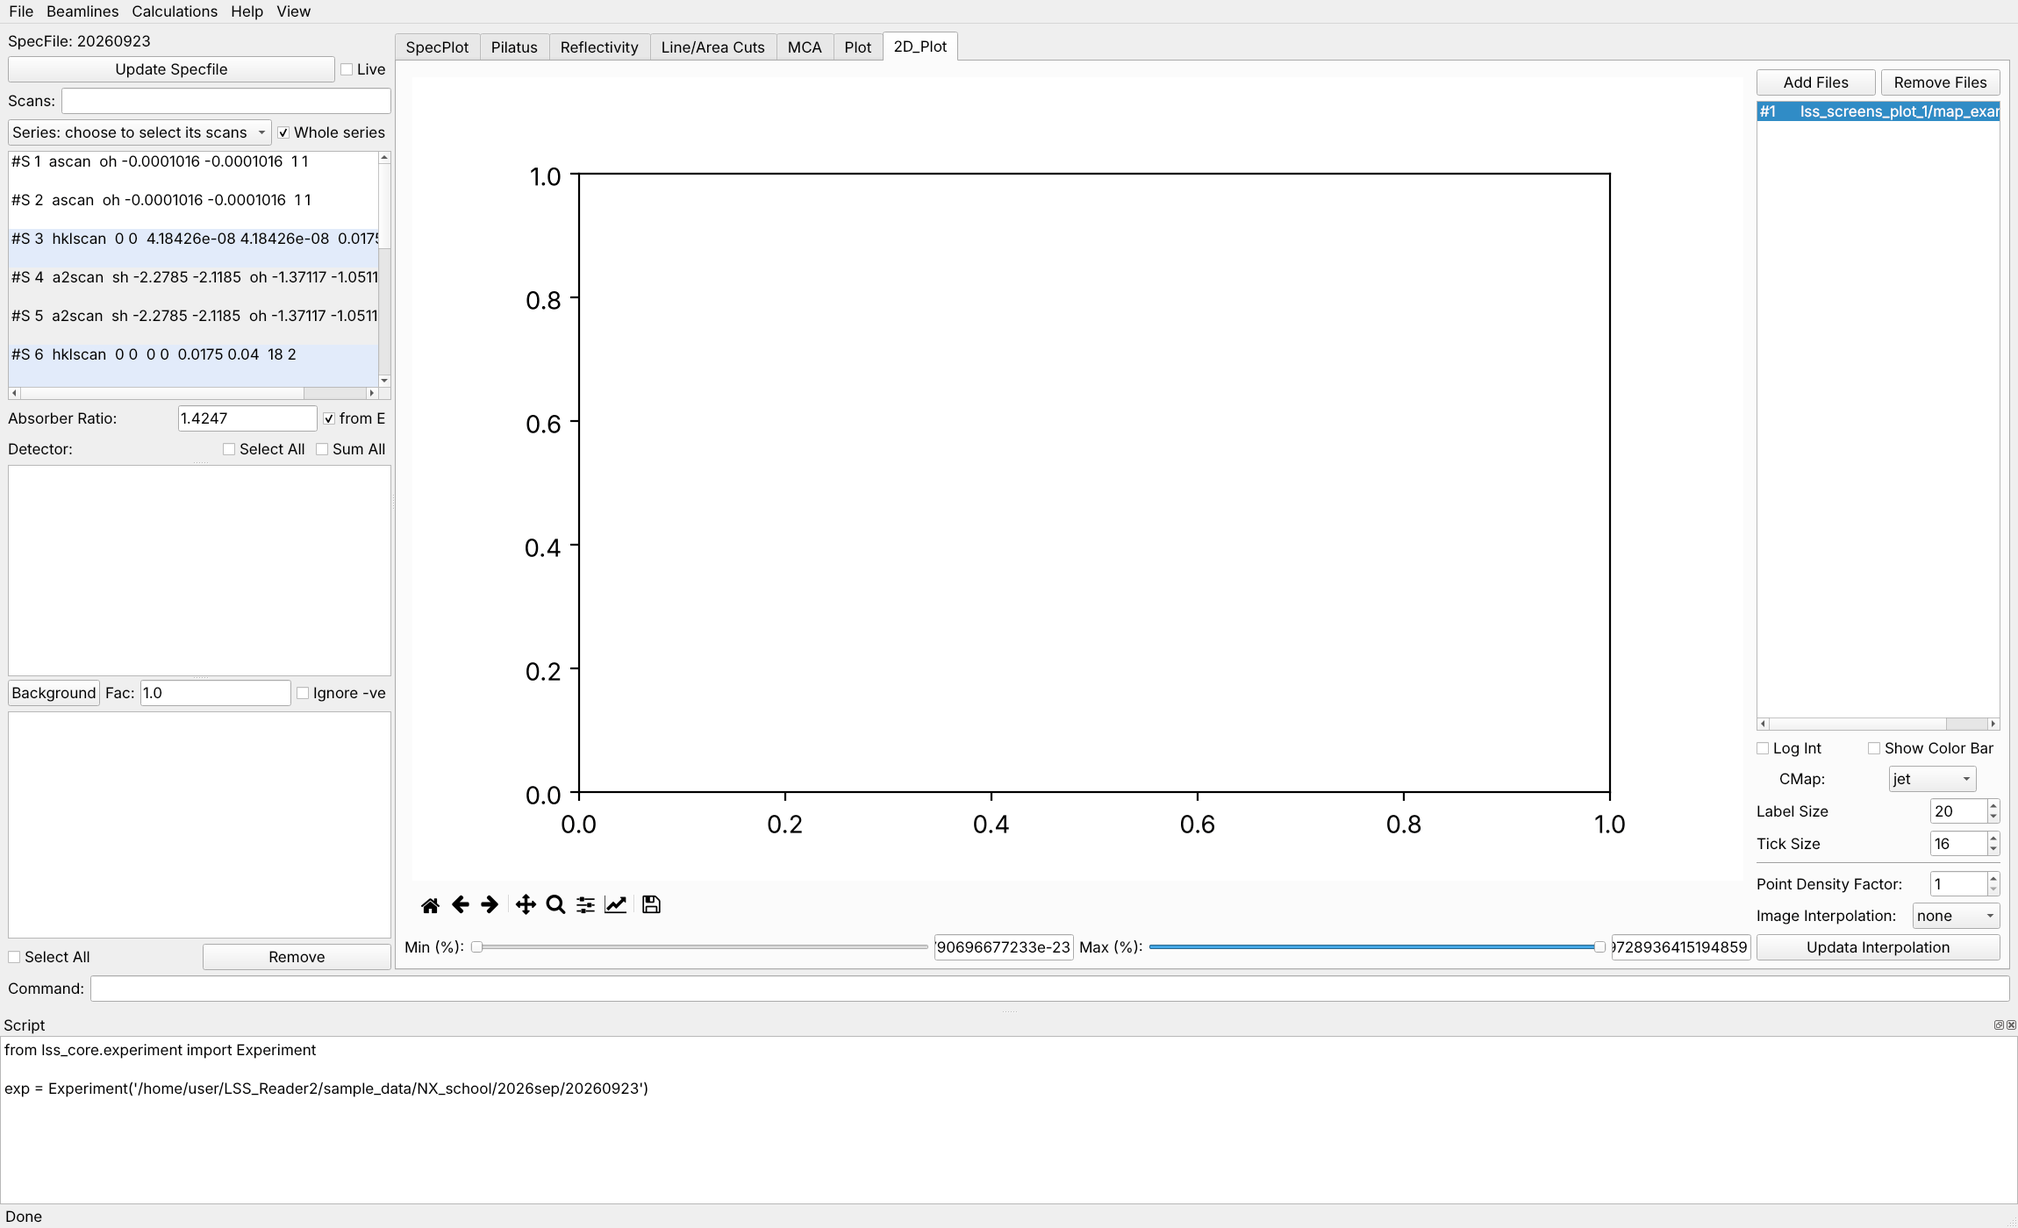
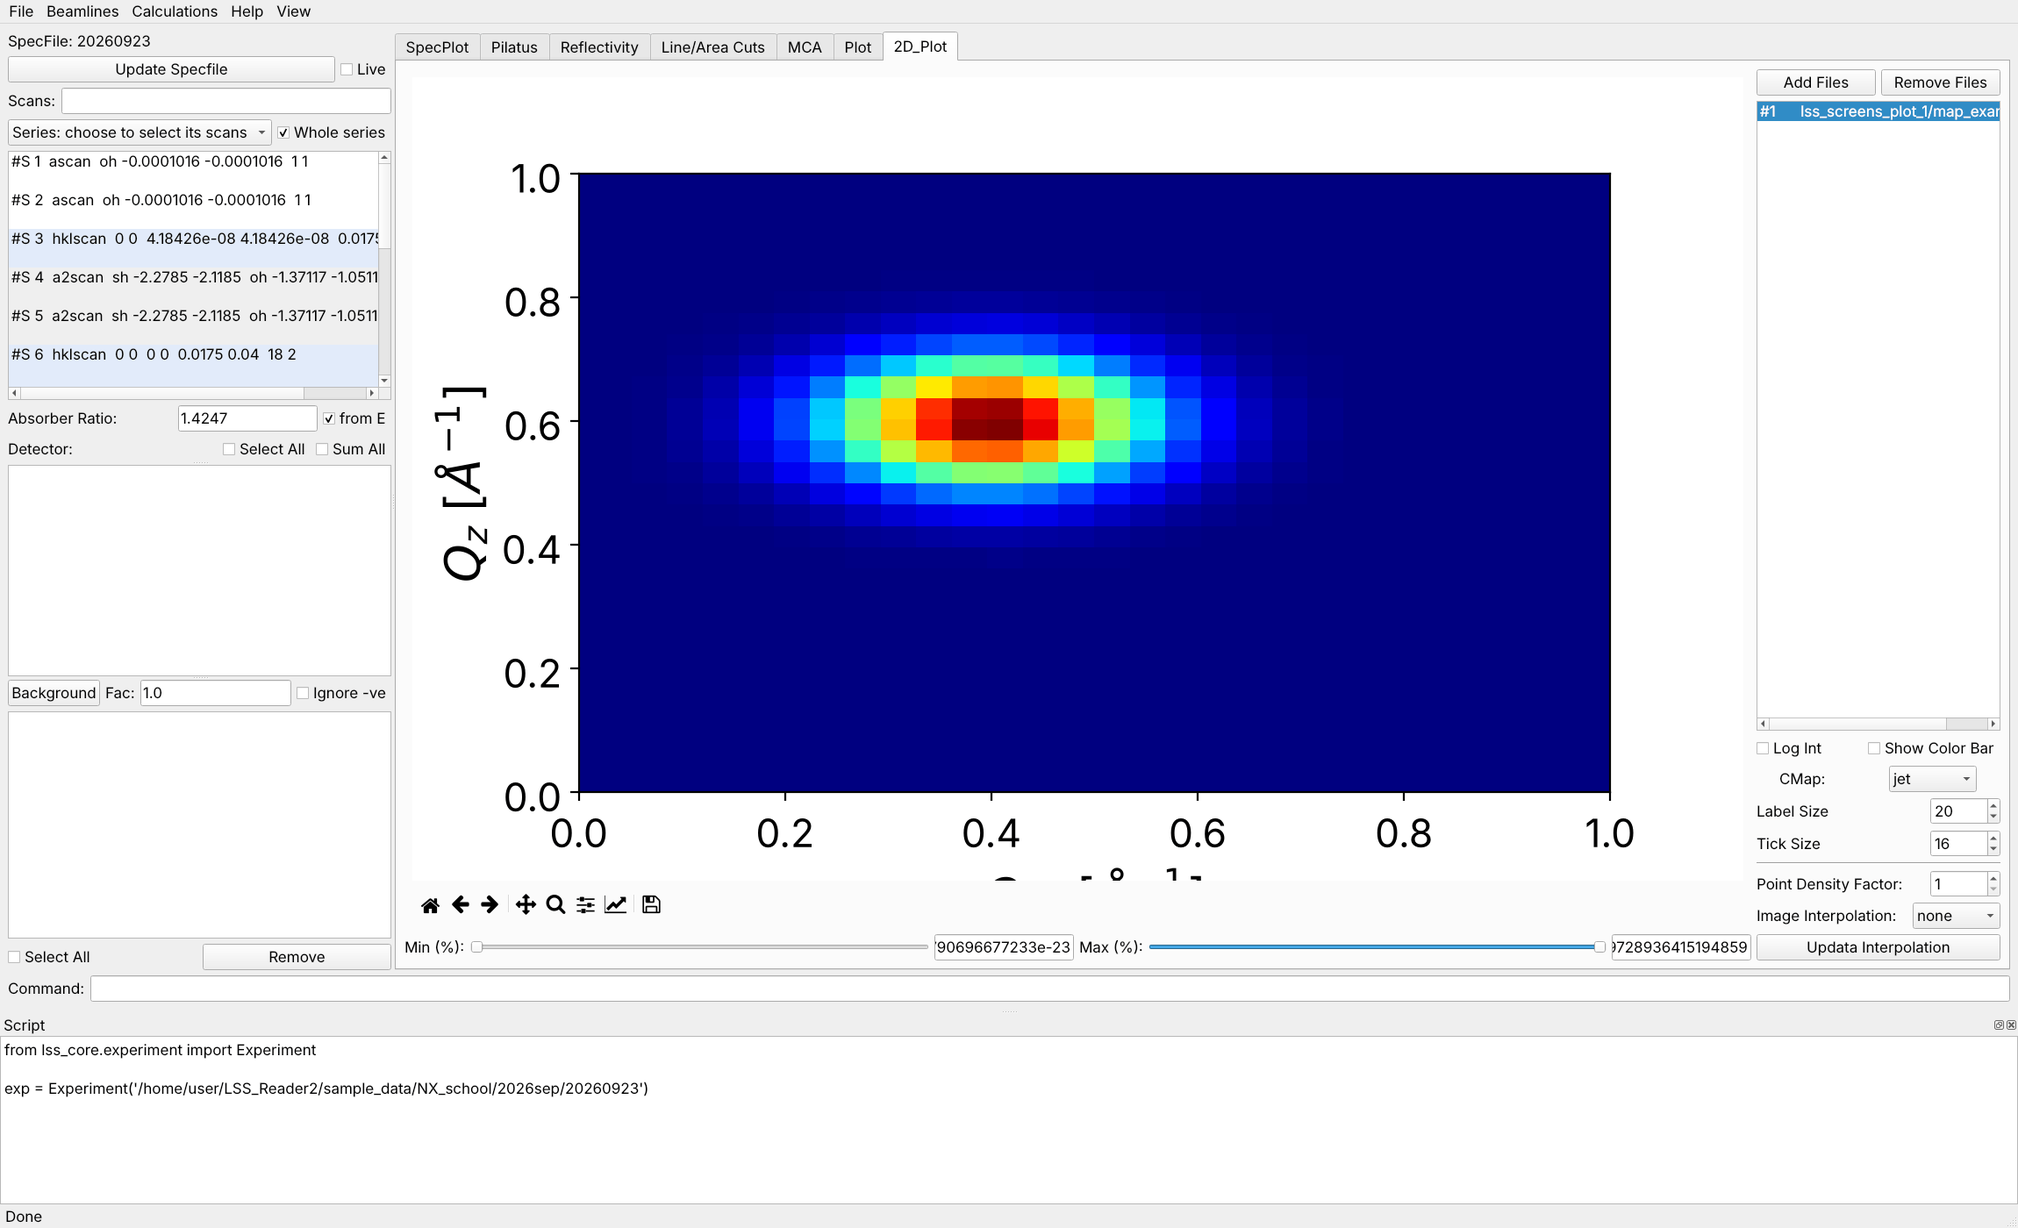
2D_Plot draws a map file again: no matplotlib.cm.get_cmap; 'spectral' offered as 'nipy_spectral'
Adding a file to the 2D_Plot tab raised AttributeError: update2dPlotPlot
called matplotlib.cm.get_cmap, removed in matplotlib 3.9 (the build pins
3.11.2), so the plot stayed empty. The colour map is now passed by name,
which every matplotlib accepts; the same call in the unreachable legacy
pilGIDData method is changed too. The 2D_Plot and (hidden) Apex
colour-map lists offered 'spectral', which matplotlib 2.0 renamed
'nipy_spectral' and later removed (choosing it raised; the Apex list
colours the Reflectivity ROI image); both now offer 'nipy_spectral', the
same map. Display only: no output number changes.

tests/test_gui_2dplot.py adds a synthetic x y z file through the real Add
File button, redraws it with every colour map, linear and log, then
interpolated, and checks that every colour map offered by any list
exists; both tests fail without the fix. The crash sweep did not catch
this because its file chooser returns no file (still open, TODO area I).
Screenshots 83 (the map now drawn) and 14 (the wider Apex list) retaken;
assessment, inventory, manual notes and TODO updated.

Claude-Session: https://claude.ai/code/session_017UNj93eCQ98icFoDfMzdiH

Changed region(s): [[0.2161, 0.1229, 0.8026, 0.7064], [0.2161, 0.3071, 0.247, 0.3379]]

diff --git a/mainwindow.py b/mainwindow.py
@@ -4940,7 +4940,7 @@ class MainWindow (QMainWindow):
             self.pil_ylabel=r'$Q_z$'+' '+r'$[\AA^{-1}]$'
         self.gidax=self.ui.pilMplWidget.canvas.fig.add_subplot(1,1,1)
         if self.ui.pilLogIntCheckBox.checkState()!=0:
-            self.gid_p=self.gidax.pcolor(self.pilXAxs, self.pilYAxs, np.log10(self.pilhintData),cmap=pl.cm.get_cmap(cmap),vmin=np.log10(vmin), vmax=np.log10(vmax))
+            self.gid_p=self.gidax.pcolor(self.pilXAxs, self.pilYAxs, np.log10(self.pilhintData),cmap=cmap,vmin=np.log10(vmin), vmax=np.log10(vmax))
         else:
             fint=interp1d(self.pilXAxs[0], self.pilhintData, kind='cubic')
             #print self.pilXAxs[0], self.pilhintData, len(self.pilhintData), len(self.pilhintData[0])
@@ -4948,7 +4948,7 @@ class MainWindow (QMainWindow):
             inter_pilhitData=fint(newpilXAxis)
             self.extent=[self.pilXAxs[0][0],self.pilXAxs[0][-1],self.pilYAxs[0][0],self.pilYAxs[-1][-1]]
             self.gid_p=self.gidax.imshow(inter_pilhitData,interpolation='bicubic',extent=self.extent,vmax=vmax,vmin=vmin,cmap=cmap,aspect=aspect,origin='lower')            
-            #self.gid_p=self.gidax.pcolor(self.pilXAxs, self.pilYAxs, self.pilhintData,cmap=pl.cm.get_cmap(cmap),vmin=vmin, vmax=vmax)           
+            #self.gid_p=self.gidax.pcolor(self.pilXAxs, self.pilYAxs, self.pilhintData,cmap=cmap,vmin=vmin, vmax=vmax)           
         #self.gidax.set_xlim((np.min(self.pilXAxs),np.max(self.pilXAxs)))
         #self.gidax.set_ylim((np.min(self.pilYAxs),np.max(self.pilYAxs)))
         self.gidax.set_aspect(aspect)
@@ -7794,9 +7794,9 @@ class MainWindow (QMainWindow):
         self.plot2dax.set_ylabel(r'$Q_{z}$'+' '+r'$[\AA^{-1}]$', fontsize=labelsize)
         if self.plot2dindex==0:
             if self.ui.twodLogIntCheckBox.checkState()!=0:
-                self.plot2d_p=self.plot2dax.pcolor(self.data2dx, self.data2dy, np.log10(self.data2dint),cmap=pl.cm.get_cmap(cmap),vmin=np.log10(vmin), vmax=np.log10(vmax))
+                self.plot2d_p=self.plot2dax.pcolor(self.data2dx, self.data2dy, np.log10(self.data2dint),cmap=cmap,vmin=np.log10(vmin), vmax=np.log10(vmax))
             else:
-                self.plot2d_p=self.plot2dax.pcolor(self.data2dx, self.data2dy, self.data2dint, cmap=pl.cm.get_cmap(cmap), vmin=vmin, vmax=vmax)
+                self.plot2d_p=self.plot2dax.pcolor(self.data2dx, self.data2dy, self.data2dint, cmap=cmap, vmin=vmin, vmax=vmax)
             self.plot2dax.set_xlim((np.min(self.data2dx),np.max(self.data2dx)))
             self.plot2dax.set_ylim((np.min(self.data2dy),np.max(self.data2dy)))
         else:

diff --git a/tests/test_gui_2dplot.py b/tests/test_gui_2dplot.py
@@ -1,0 +1,58 @@
+"""The 2D_Plot tab draws an x y z map file.
+
+Found by the GUI assessment (2026-11-22, TODO area I): adding a file raised
+AttributeError, because ``update2dPlotPlot`` called
+``matplotlib.cm.get_cmap``, removed in matplotlib 3.9; and the colour-map
+lists of the 2D_Plot and (hidden) Apex tabs offered ``spectral``, the name
+matplotlib 2.0 changed to ``nipy_spectral`` and later removed. The crash
+sweep never saw it: its file chooser returns no file.
+"""
+import matplotlib
+import numpy as np
+import pytest
+
+pytestmark = pytest.mark.gui
+
+NX, NY = 30, 20
+
+
+def _map_file(tmp_path):
+    xx, yy = np.meshgrid(np.linspace(0.1, 1.0, NX), np.linspace(0.1, 1.0, NY))
+    zz = 1.0 + 100.0 * np.exp(-(((xx - 0.4) / 0.15) ** 2 + ((yy - 0.6) / 0.1) ** 2))
+    path = tmp_path / 'map.txt'
+    np.savetxt(path, np.column_stack([xx.ravel(), yy.ravel(), zz.ravel()]))
+    return str(path)
+
+
+def test_a_map_file_is_drawn_in_every_colour_map_and_scale(window, qapp, recorder, tmp_path):
+    recorder.open_names = [_map_file(tmp_path)]
+    window.ui.twodPlotAddFilePushButton.click()
+    qapp.processEvents()
+    files = window.ui.twodPlotFileListWidget
+    assert files.count() == 1
+    files.item(0).setSelected(True)
+    qapp.processEvents()
+    assert recorder.exceptions == []
+    assert window.plot2dindex == 0
+    assert window.plot2d_p.get_array().size == NX * NY
+    combo = window.ui.twodCMapComboBox
+    for log in (False, True):
+        window.ui.twodLogIntCheckBox.setChecked(log)
+        for i in range(combo.count()):
+            combo.setCurrentIndex(i)
+            qapp.processEvents()
+            assert window.plot2d_p.get_cmap().name == combo.itemText(i)
+    window.ui.twodUpdatePlotPushButton.click()          # interpolated: drawn with imshow
+    qapp.processEvents()
+    assert window.plot2dindex == 1
+    assert window.plot2d_p.get_cmap().name == combo.currentText()
+    assert recorder.exceptions == []
+    assert recorder.messages == []
+
+
+def test_every_colour_map_offered_exists(window, recorder):
+    for name in ('pilCMapComboBox', 'gixCMapComboBox', 'twodCMapComboBox'):
+        combo = getattr(window.ui, name)
+        for i in range(combo.count()):
+            assert combo.itemText(i) in matplotlib.colormaps, (name, combo.itemText(i))
+    assert recorder.exceptions == []

diff --git a/docs/gui/inventory.md b/docs/gui/inventory.md
@@ -329,7 +329,7 @@ Generated by `python tests/tools/gui_map.py` from `docs/gui/inventory/*.yaml`; d
 | `pilBPCiteSpinBox` | spin | Bad Pix Corr. Iter. | Pilatus | imageSelectedScanChanged | Iterations of bad-pixel correction applied when frames are read (0: off) | reflectivity; gid; gisaxs; cuts; burn-ref; burn-gid |  | always | False | Changing it re-reads all frames. The Reflectivity tab has its own 'Bad Pixel Correction fac' field (inventory B); the Apex tab another. Three spellings. |
 | `pilBPCfacSpinBox` | spin | Fact. | Pilatus | imageSelectedScanChanged | Threshold factor of the bad-pixel correction | reflectivity; gid; gisaxs; cuts; burn-ref; burn-gid | iterations > 0 | always | False | 'Fact.' meaning not explained; no tooltip. |
 | `pilAxesComboBox` | combo | Axes: | Pilatus | update2dPlots | Image axes in Pixels, Angles or Q | gid; gisaxs; cuts; reflectivity | frames selected | always | False | Movie and GISAXS switch it to Q silently. Cut directions in pixels or Q are chosen separately in pilCutDirComboBox, not linked to this. |
-| `pilCMapComboBox` | combo | CMap: | Pilatus | update2dPlots | Colour map (jet, gray, hot, summer, winter, rainbow) | reflectivity; gid; gisaxs; cuts; burn-ref; burn-gid |  | always | False | List differs from 2D_Plot and Apex ('spectral' there, 'rainbow' here). The Reflectivity ROI image uses the hidden Apex tab's colour map instead of this one (refAnalyze reads gixCMapComboBox; read only). Not kept between sessions (F70). |
+| `pilCMapComboBox` | combo | CMap: | Pilatus | update2dPlots | Colour map (jet, gray, hot, summer, winter, rainbow) | reflectivity; gid; gisaxs; cuts; burn-ref; burn-gid |  | always | False | List differs from 2D_Plot and Apex ('nipy_spectral' there, formerly 'spectral'; 'rainbow' here). The Reflectivity ROI image uses the hidden Apex tab's colour map instead of this one (refAnalyze reads gixCMapComboBox; read only). Not kept between sessions (F70). |
 | `pilAspectComboBox` | combo | Aspect: | Pilatus | update2dPlots | Image aspect auto or equal | gid; gisaxs; cuts |  | always | False | Not on 2D_Plot. |
 | `pilMplWidget` | plot |  | Pilatus |  | Up to 10 selected frames in a grid, each with a colour bar, or one summed frame, GISAXS or GID map; matplotlib toolbar below | reflectivity; gid; gisaxs; cuts; burn-ref; burn-gid | frames selected | always | False | Measured: 11 frames selected -> 10 drawn (F#0-F#9) with no notice; frame titles, axis labels and colour bars overlap and the suptitle overprints the top row; at the default scale (min -2, max 1) the reflectivity frames are a uniform yellow. No overlay of the ROI, cut band or direct beam column, except a dashed line in Movie (read only). Phase-2 subject (image_display.md). |
 | `pilLogIntCheckBox` | checkbox | Log Int | Pilatus | update2dPlots | Log colour scale | reflectivity; gid; gisaxs; cuts; burn-ref; burn-gid |  | always | False | Off by default although most frames need it (observed). Name differs from LogX/LogY elsewhere. |
@@ -391,7 +391,7 @@ Generated by `python tests/tools/gui_map.py` from `docs/gui/inventory/*.yaml`; d
 | `twodPlotFileListWidget` | list |  | 2D_Plot | updateSelected2dPlotFile | The added files; selecting one plots it | flex-plot |  | always | False | Multi-selection allowed, only the first is used. |
 | `twodLogIntCheckBox` | checkbox | Log Int | 2D_Plot | update2dPlotPlot | Log colour scale | flex-plot |  | always | False |  |
 | `twodColBarCheckBox` | checkbox | Show Color Bar | 2D_Plot | update2dPlotPlot | Shows the colour bar | flex-plot |  | always | False | Pilatus always draws one per frame; no switch there. |
-| `twodCMapComboBox` | combo | CMap: | 2D_Plot | update2dPlotPlot | Colour map (jet, gray, hot, summer, winter, spectral) | flex-plot |  | always | False | 'spectral' is not a matplotlib name in current versions ('Spectral'); choosing it may fail (read only, not run). Pilatus has 'rainbow' instead. |
+| `twodCMapComboBox` | combo | CMap: | 2D_Plot | update2dPlotPlot | Colour map (jet, gray, hot, summer, winter, nipy_spectral) | flex-plot |  | always | False | Offered 'spectral' until 2026-11-23, a name matplotlib 2.0 changed to 'nipy_spectral' and later removed (choosing it raised); now 'nipy_spectral'. Adding a file raised AttributeError (matplotlib.cm.get_cmap, removed in 3.9) until 2026-11-23 (tests/test_gui_2dplot.py). Pilatus has 'rainbow' instead. |
 | `twodLabelSizeSpinBox` | spin | Label Size | 2D_Plot | update2dPlotPlot | Axis label font size | flex-plot |  | always | False | Only 2D_Plot and Plot have font sizes; image and cut plots do not. |
 | `twodTickSizeSpinBox` | spin | Tick Size | 2D_Plot | update2dPlotData | Tick label font size | flex-plot |  | always | False | Connected to update2dPlotData (reloads the file and resets the colour limits), unlike Label Size (update2dPlotPlot) (read only). |
 | `twodDenFacSpinBox` | spin | Point Density Factor: | 2D_Plot |  | Factor by which Update Interpolation multiplies the number of x points | flex-plot |  | always | False | Used only by the button. |

diff --git a/docs/gui/screens/README.md b/docs/gui/screens/README.md
@@ -6,7 +6,7 @@ and synthetic data from `tests/synth.py` for MCA / fluorescence, the reflectivit
 (NX has no MCA data). Regenerate the whole folder with the command above; the table is rewritten, the
 Observations section is by hand and is kept.
 
-74 images, 5.7 MB, last run took 42 s.
+74 images, 5.7 MB, last run took 44 s.
 
 | File | What it shows | Data and state |
 |---|---|---|
@@ -25,7 +25,7 @@ Observations section is by hand and is kept.
 | `21_pilatus_one_frame.png` | Pilatus tab, whole window, one frame | Scan 11, frame 1 selected |
 | `21b_pilatus_tab_controls.png` | Pilatus tab page (controls above, image below) | Scan 11, frame 1 |
 | `22_pilatus_three_frames.png` | Pilatus tab with three frames selected | Scan 11, frames 1, 11, 21 selected |
-| `23_pilatus_all_frames_of_a_scan.png` | Pilatus tab with ALL frames of a long scan selected (the many-small-images problem) | Scan 11: all 40 frames selected (drawing took 0.6 s offscreen) |
+| `23_pilatus_all_frames_of_a_scan.png` | Pilatus tab with ALL frames of a long scan selected (the many-small-images problem) | Scan 11: all 40 frames selected (drawing took 0.8 s offscreen) |
 | `23b_pilatus_all_frames_reflectivity_series.png` | Pilatus tab with all frames of the four reflectivity scans selected | Scans 6-9: all 96 frames selected |
 | `30_reflectivity_empty.png` | The Reflectivity tab (page and its controls) with nothing loaded | No SPEC file; crop of the tab widget |
 | `31_refpatch_dialog_first_join.png` | Ref Patch window (opened by Pilatus > Ref Patch), first join | Scans 6-9 all frames; Ref Patch clicked |
@@ -137,7 +137,7 @@ fonts), where font metrics may differ a little from the owner's desktop.
 - The integral plot shows a legend "#0" with an errorbar sample that is not one of the points plotted.
 
 **Plot, 2D_Plot (`8x`)**
-- 2D_Plot raises `AttributeError: module 'matplotlib.cm' has no attribute 'get_cmap'` at `update2dPlotPlot` (mainwindow.py:7718 on 2026-11-22, 7799 after the covariance merge) with matplotlib 3.11.2 (removed in 3.9), so the plot stays empty (`83_*`). Real bug in this environment; requirements pin should be checked.
+- 2D_Plot raises `AttributeError: module 'matplotlib.cm' has no attribute 'get_cmap'` at `update2dPlotPlot` (mainwindow.py:7718 on 2026-11-22, 7799 after the covariance merge) with matplotlib 3.11.2 (removed in 3.9), so the plot stays empty (`83_*`). Real bug in this environment; requirements pin should be checked. **Fixed 2026-11-23** (`83_*` retaken: the map is drawn).
 - 2D_Plot has Label Size, Tick Size, Point Density Factor and an "Updata Interpolation" button (typo).
 - Min/Max fields clipped here too.
 

diff --git a/docs/TODO.md b/docs/TODO.md
@@ -139,7 +139,7 @@ GUI overhaul (R4, D58; plan `docs/gui/README.md`), planning only until the owner
 |---|---|
 | **Workbook Save records the scans selected at the time of saving, not the scans behind the result** (a scan-6 curve saved after selecting scan 11 is stored as scan 11; the plot title too). Cause read: `saveRefToWorkbook` and `saveMcaToWorkbook` take `selectedScanNums` when Save is clicked; the recipe is right, so the scans column, series tie, stale flag and live remake disagree with it. For whoever owns Stage 3 | seen; **reproduced 2026-11-23** on synthetic data (curve of scans 1, 2 saved after selecting scan 1: stored as '1'), pinned by the strict xfail `test_gui_workbook.py::test_a_reflectivity_is_saved_tied_to_the_scans_it_was_made_from` |
 | **The point-by-point path (Analyze/Accept) saves one workbook version per Accept** (each Accept calls `updateRefPlotData`, one of the automatic-save points). Not pinned by a test: what counts as finished in this path depends on the owner's answer to question 13 (is Analyze/Accept kept?) | seen; **measured 2026-11-23**: synthetic scan 1, three Accepts → R0001, R0002, R0003 (versions 1–3, automatic) |
-| 2D_Plot: adding a file raises AttributeError (`matplotlib.cm.get_cmap`, removed in matplotlib 3.9), `update2dPlotPlot`; its colour-map list offers `spectral`, not valid now. The crash sweep misses it because its file chooser returns no file | seen |
+| ~~2D_Plot: adding a file raises AttributeError (`matplotlib.cm.get_cmap`, removed in matplotlib 3.9), `update2dPlotPlot`; its colour-map list offers `spectral`, not valid now. The crash sweep misses it because its file chooser returns no file~~ **fixed 2026-11-23**: a colour-map name is passed instead (works on every matplotlib); `spectral` offered as `nipy_spectral` in both lists; `tests/test_gui_2dplot.py` adds a file through the real button | seen |
 | Log Int on frames with a negative bad pixel: typed Min −2, log10 gives NaN, the colour range collapses to ±0.1 decades | measured |
 | Cursor readout over tiled frames shows the last frame's value; the ROI close-up's readout swaps rows and columns | measured |
 | The drawn right background box of the reflectivity ROI is 2 px from the one summed | measured |

diff --git a/docs/gui/assessment_a.md b/docs/gui/assessment_a.md
@@ -222,7 +222,7 @@ states: `10_leftpanel_series_chosen.png`, `21b_pilatus_tab_controls.png`,
   - Two action menus are combo boxes (GID, GISAXS). They keep the last action as their text
     (observed "Show GISAXS"), so they look like modes **[seen]**.
   - "Reflectivity" and "Line/Area Cuts" buttons carry the names of the tabs they open.
-  - Colour-map lists differ from 2D_Plot and Apex ("rainbow" vs "spectral").
+  - Colour-map lists differ from 2D_Plot and Apex ("rainbow" vs "spectral", now "nipy_spectral").
   - Only Pinhole has a tooltip.
 - **Visual cues:**
   - **Frame grid [seen]:** at most 10 frames are drawn, without notice. Titles, labels and
@@ -292,7 +292,7 @@ states: `10_leftpanel_series_chosen.png`, `21b_pilatus_tab_controls.png`,
 - Typo "Updata Interpolation" **[seen]**.
 - **Wiring [read]:** the sliders are connected twice. Tick Size reloads the file and resets
   the limits. `imageMax`/`imageMin` are shared with Pilatus.
-- "spectral" is not a current matplotlib colour-map name. It was not run.
+- "spectral" is not a current matplotlib colour-map name. It was not run. (fixed 2026-11-23: offered as `nipy_spectral`, the same map under its current name; `tests/test_gui_2dplot.py`)
 - **Proposals:**
   - Same Display box as Pilatus.
   - "Send to 2D_Plot" from GID and GISAXS results instead of save and re-add.

diff --git a/docs/MANUAL_NOTES.md b/docs/MANUAL_NOTES.md
@@ -120,6 +120,7 @@ Each line: feature — where — default — script — notes entry (date).
   that cuts in Qz/Qxy and I vs β are not documented: I vs β works today as
   "Pix V" with axes "Angles"; write this part of the manual first.
 - Background images and background-subtracted frames (not scriptable yet).
+- 2D_Plot tab (x y z text files, e.g. exported maps): Add File, select it, then CMap, Log Int, Min/Max, interpolation. It works again since 2026-11-23 (adding a file had raised an error with matplotlib 3.9 or later). The colour map once listed as 'spectral' is listed as 'nipy_spectral', the same map under the name matplotlib has used since version 2.0; the hidden Apex tab's list, which colours the Reflectivity ROI image, changed the same way.
 
 ### GID
 - GID worksheet (GID menu > Worksheet): every patch parameter, Patch,

diff --git a/docs/gui/image_display.md b/docs/gui/image_display.md
@@ -161,7 +161,7 @@ good. Zoom is lost on every frame (`clf`).
   gray, hot, summer, winter, **spectral**), label and tick size,
   interpolation density and method.
 - **`spectral` is not a valid colour map in matplotlib ≥ 2.2** [M:
-  `KeyError` on 3.11]. Choosing it raises.
+  `KeyError` on 3.11]. Choosing it raises. (fixed 2026-11-23: offered as `nipy_spectral`, the same map under its current name; `tests/test_gui_2dplot.py`)
 - Axes are always labelled Qxy and Qz.
 
 ### 1.7 Line cuts today (for F68)
